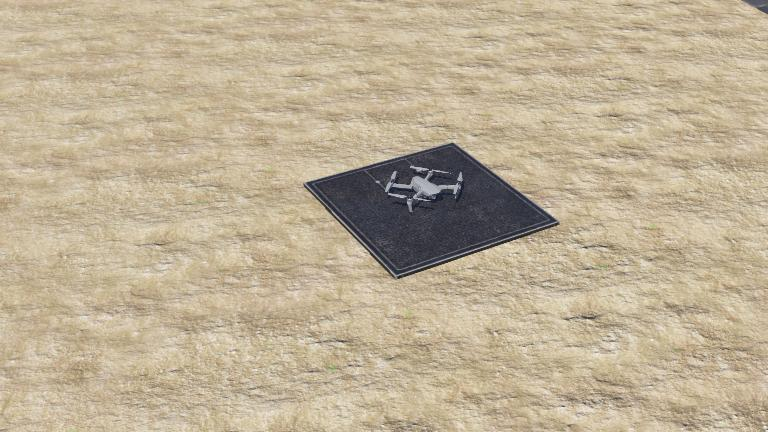
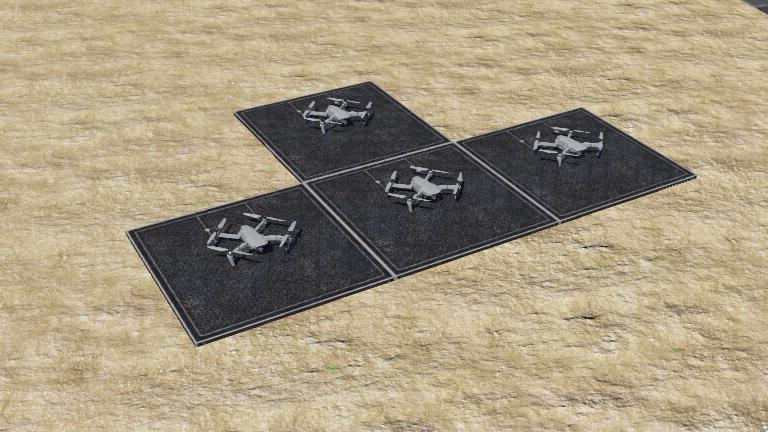
added more controllers and more drones

diff --git a/src/main/java/controllers/Drone2Controller/Drone2Controller.java b/src/main/java/controllers/Drone2Controller/Drone2Controller.java
@@ -7,7 +7,7 @@ import com.cyberbotics.webots.controller.Gyro;
 
 import java.io.IOException;
 
-public class DroneController extends Robot {
+public class Drone2Controller extends Robot {
   private static final int TIME_STEP = 64; // Simulation time step in milliseconds
   private static final double TARGET_ALTITUDE = 1.0;
   private static final double TARGET_X = 0.0;
@@ -28,7 +28,7 @@ public class DroneController extends Robot {
   private static final double K_ROLL_P = 22.0; // P constant of the roll PID.
   private static final double K_PITCH_P = 17.0; // P constant of the pitch PID.
   
-  public DroneController() {
+  public Drone2Controller() {
     super();
     initializeDevices();
   }
@@ -184,7 +184,7 @@ public class DroneController extends Robot {
   }
   
   public static void main(String[] args) {
-    DroneController droneController = new DroneController();
+    Drone2Controller droneController = new Drone2Controller();
     droneController.run();
   }
 }

diff --git a/src/main/java/controllers/Drone3Controller/Drone3Controller.java b/src/main/java/controllers/Drone3Controller/Drone3Controller.java
@@ -7,7 +7,7 @@ import com.cyberbotics.webots.controller.Gyro;
 
 import java.io.IOException;
 
-public class DroneController extends Robot {
+public class Drone3Controller extends Robot {
   private static final int TIME_STEP = 64; // Simulation time step in milliseconds
   private static final double TARGET_ALTITUDE = 1.0;
   private static final double TARGET_X = 0.0;
@@ -28,7 +28,7 @@ public class DroneController extends Robot {
   private static final double K_ROLL_P = 22.0; // P constant of the roll PID.
   private static final double K_PITCH_P = 17.0; // P constant of the pitch PID.
   
-  public DroneController() {
+  public Drone3Controller() {
     super();
     initializeDevices();
   }
@@ -184,7 +184,7 @@ public class DroneController extends Robot {
   }
   
   public static void main(String[] args) {
-    DroneController droneController = new DroneController();
+    Drone3Controller droneController = new Drone3Controller();
     droneController.run();
   }
 }

diff --git a/src/main/java/controllers/Drone4Controller/Drone4Controller.java b/src/main/java/controllers/Drone4Controller/Drone4Controller.java
@@ -7,7 +7,7 @@ import com.cyberbotics.webots.controller.Gyro;
 
 import java.io.IOException;
 
-public class DroneController extends Robot {
+public class Drone4Controller extends Robot {
   private static final int TIME_STEP = 64; // Simulation time step in milliseconds
   private static final double TARGET_ALTITUDE = 1.0;
   private static final double TARGET_X = 0.0;
@@ -28,7 +28,7 @@ public class DroneController extends Robot {
   private static final double K_ROLL_P = 22.0; // P constant of the roll PID.
   private static final double K_PITCH_P = 17.0; // P constant of the pitch PID.
   
-  public DroneController() {
+  public Drone4Controller() {
     super();
     initializeDevices();
   }
@@ -184,7 +184,7 @@ public class DroneController extends Robot {
   }
   
   public static void main(String[] args) {
-    DroneController droneController = new DroneController();
+    Drone4Controller droneController = new Drone4Controller();
     droneController.run();
   }
 }
